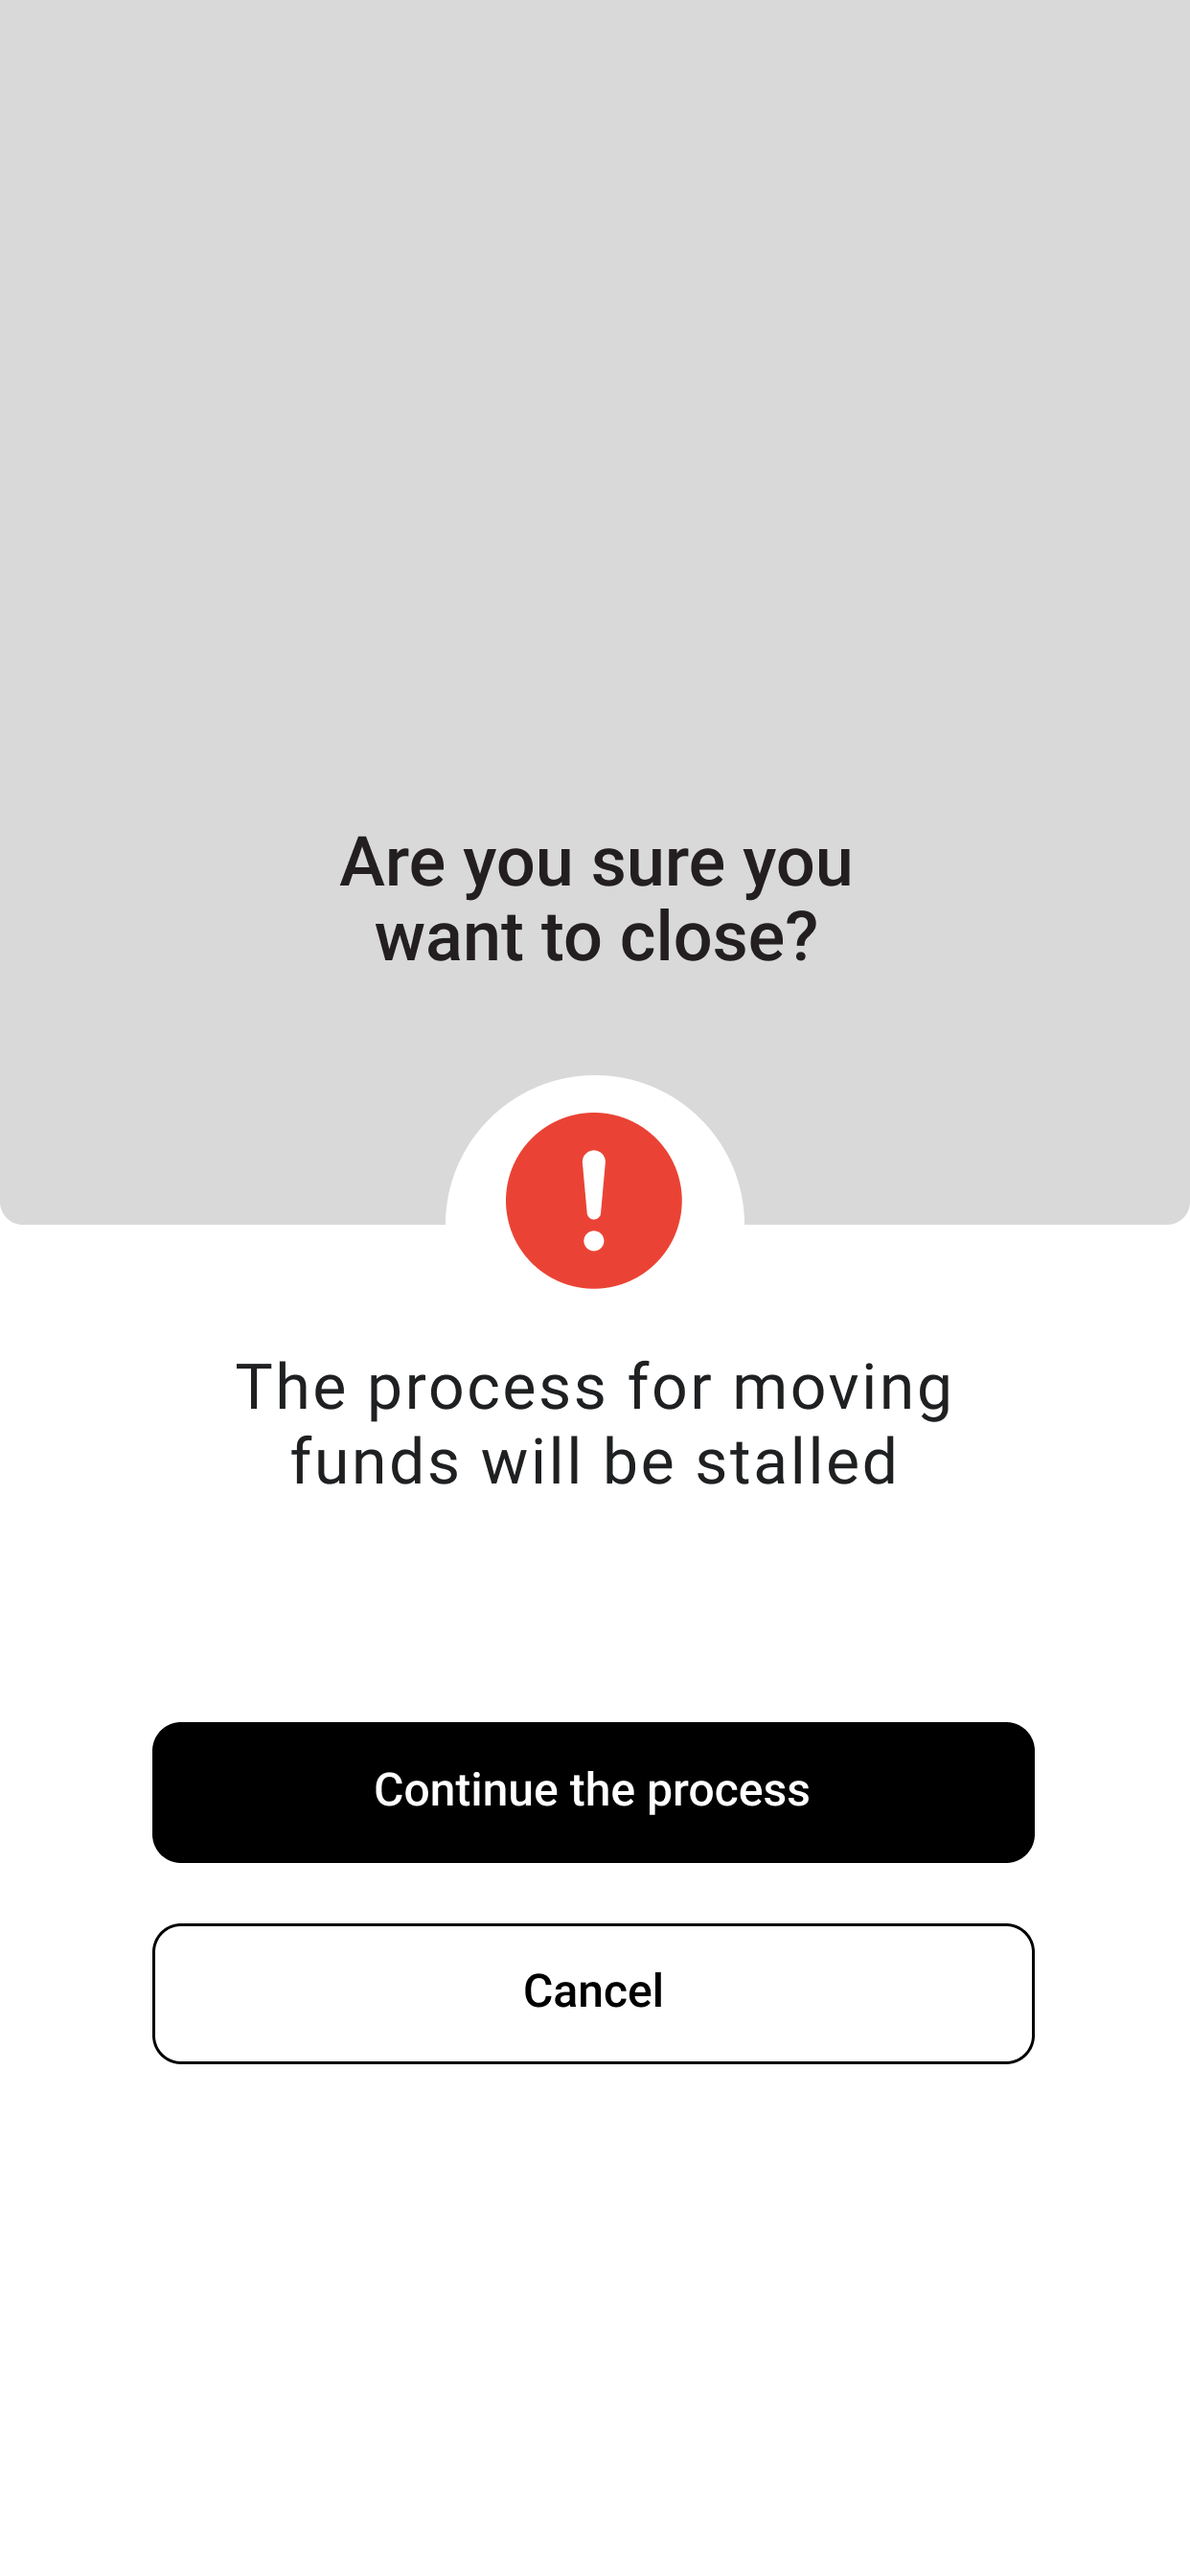
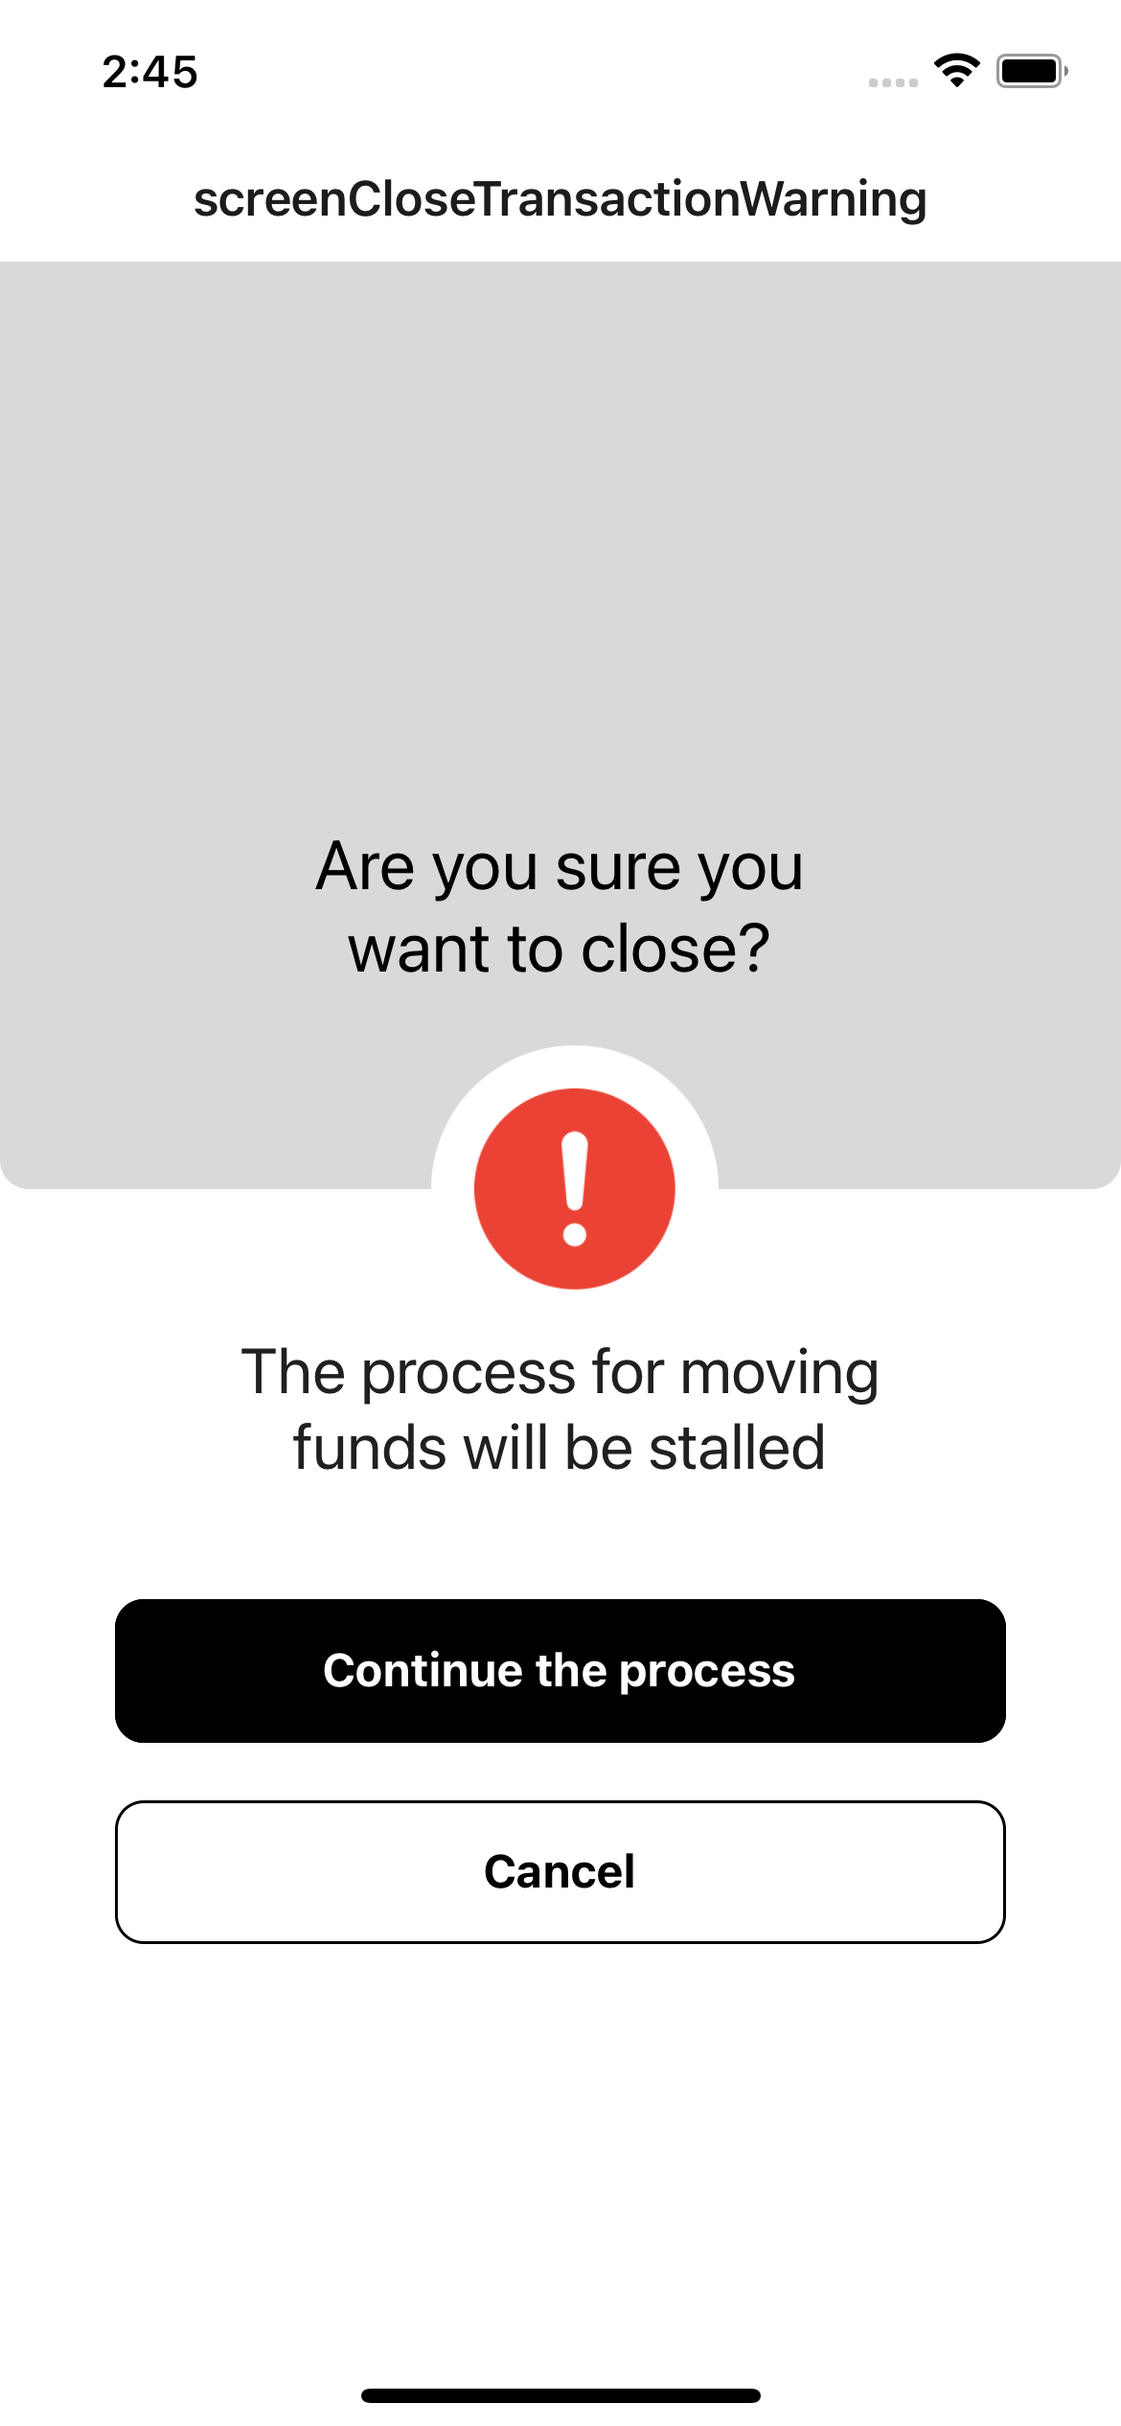
close transaction ewarning screen added

diff --git a/screens/screen-close-transaction-warning/index.js b/screens/screen-close-transaction-warning/index.js
@@ -1,14 +1,36 @@
 import React from "react";
-import {
-  Text,
-  View,
-  StyleSheet
-} from "react-native";
+import { Text, View, StyleSheet, Image, Pressable } from "react-native";
 
 const CloseTransactionWarning = () => {
   return (
     <View style={styles.container}>
-      <Text style={styles.heading}>Close Transaction Warning</Text>
+      <View style={styles.upper}>
+        <Text style={styles.mainHeading}>Are you sure you want to close?</Text>
+        <View style={styles.iconContainer}>
+          <Image
+            source={require("./assets/alertIcon.png")}
+            style={styles.icon}
+          />
+        </View>
+      </View>
+      <View style={styles.lower}>
+        <Text style={styles.heading}>
+          The process for moving funds will be stalled
+        </Text>
+        <Button
+          buttonText="Continue the process"
+          style={styles.button}
+          hideShadow
+        />
+        <Button
+          buttonText="Cancel"
+          outlineColor="#000"
+          color="#fff"
+          textColor="#000"
+          hideShadow
+          style={styles.button}
+        />
+      </View>
     </View>
   );
 };
@@ -17,9 +39,116 @@ const styles = StyleSheet.create({
     flex: 1,
     backgroundColor: "#fff"
   },
+  upper: {
+    flex: 3,
+    backgroundColor: "#D9D9D9",
+    borderBottomLeftRadius: 10,
+    borderBottomRightRadius: 10,
+    justifyContent: "flex-end"
+  },
+  lower: {
+    flex: 4
+  },
+  iconContainer: {
+    width: 100,
+    height: 100,
+    backgroundColor: "#fff",
+    borderRadius: 50,
+    justifyContent: "center",
+    alignItems: "center",
+    position: "absolute",
+    bottom: -50,
+    left: 150
+  },
+  icon: {
+    width: 70,
+    height: 70
+  },
+  mainHeading: {
+    fontSize: 24,
+    textAlign: "center",
+    alignSelf: "center",
+    marginBottom: 70,
+    marginTop: 60,
+    width: "50%"
+  },
   heading: {
-    fontSize: 20
+    fontSize: 22,
+    textAlign: "center",
+    alignSelf: "center",
+    marginTop: 50,
+    marginBottom: 20,
+    width: "70%",
+    color: "#1E2022"
+  },
+  button: {
+    marginTop: 20,
+    marginHorizontal: 40
   }
 });
 
 export default CloseTransactionWarning;
+
+const Button = params => {
+  const backgroundColor = params.color || "#000";
+  const textColor = params.textColor || "#fff";
+  const btnStyle = {
+    backgroundColor: backgroundColor,
+    borderColor: params.outlineColor || backgroundColor,
+    borderWidth: 1
+  };
+  const btnText = {
+    color: textColor
+  };
+  return (
+    <View style={[buttonStyles.btnContainer, params.style]}>
+      <View style={!params.hideShadow ? buttonStyles.shadowContainer : null}>
+        <Pressable
+          style={[buttonStyles.btn, btnStyle]}
+          onPress={params.onPress}>
+          <Text style={[buttonStyles.btnText, btnText]}>
+            {params.buttonText}
+          </Text>
+          <View style={styles.childrenContainer}>{params.children}</View>
+        </Pressable>
+      </View>
+    </View>
+  );
+};
+
+const buttonStyles = StyleSheet.create({
+  btnContainer: {
+    justifyContent: "center"
+  },
+  shadowContainer: {
+    shadowColor: "rgba(0, 0, 0, 0.5)",
+    shadowOffset: {
+      width: 0,
+      height: 5
+    },
+    shadowOpacity: 0.5,
+    shadowRadius: 10,
+    elevation: 10,
+    backgroundColor: "#fff",
+    borderRadius: 10
+  },
+  btn: {
+    height: 50,
+    padding: 10,
+    paddingHorizontal: 25,
+    borderRadius: 10,
+    justifyContent: "center",
+    alignItems: "center",
+
+    flexDirection: "row"
+  },
+  btnText: {
+    color: "#fff",
+    fontSize: 16,
+    fontWeight: "bold"
+  },
+  childrenContainer: {
+    justifyContent: "center",
+    alignItems: "center"
+  }
+});

diff --git a/modules/index.js b/modules/index.js
@@ -2,7 +2,7 @@ import mods from "./*/index.js";
 import { getModules } from "./modules.js";
 
 export const modules = getModules(mods);
-export const initialRoute = "screenChooseWallet";
+export const initialRoute = "screenCloseTransactionWarning";
 // export const initialRoute = modules[0].value.title;
 export const slices = modules
   .filter(mod => mod.value.slice)
